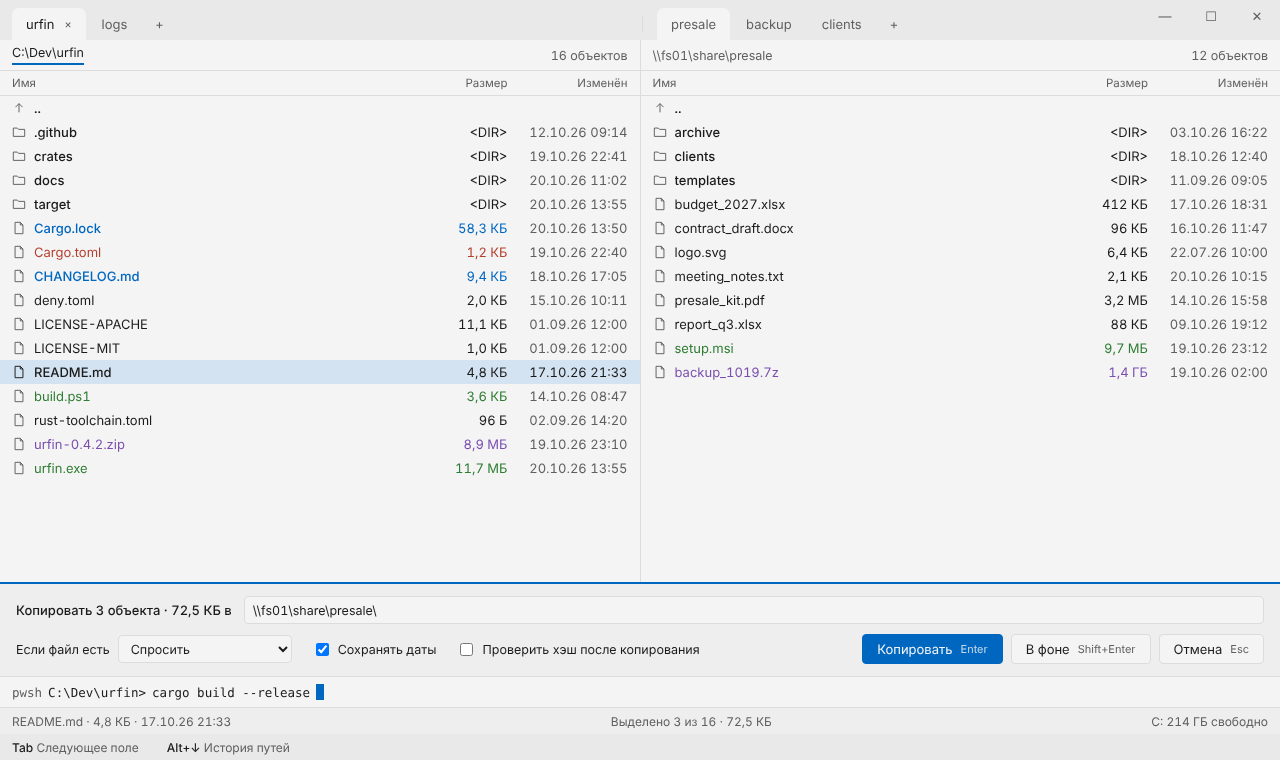
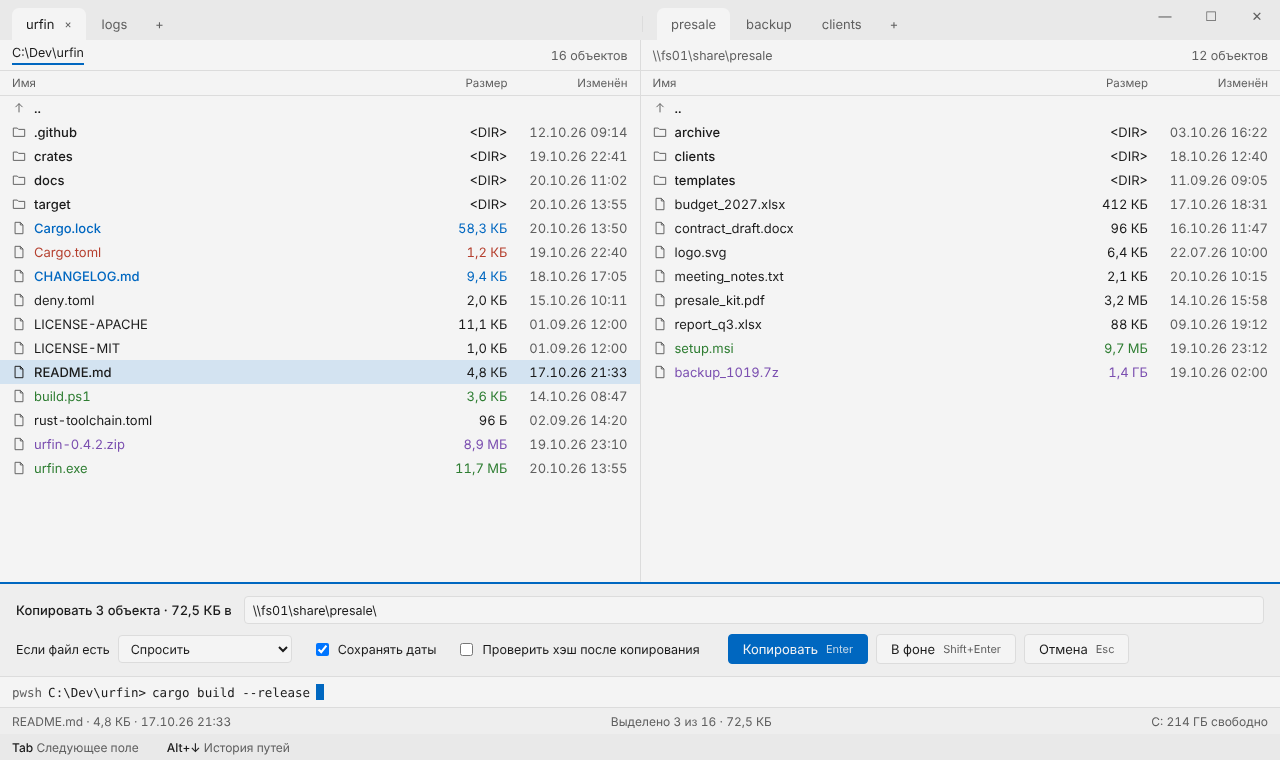
design: tinted warning/danger strips, buttons next to text
Roles warning_bg/danger_bg in all six themes; journal banner and conflict on
warning_bg, F8 on danger_bg; strip buttons follow the text instead of the
right edge; toast row corrected (no buttons).

Claude-Session: https://claude.ai/code/session_013ZpcYnbJMYkHW4aMDDmFTq

Changed region(s): [[0.5625, 0.8171, 0.875, 0.8776], [0.9062, 0.8474, 0.9688, 0.8776]]

diff --git a/docs/design/window.dc.html b/docs/design/window.dc.html
@@ -363,7 +363,7 @@ body{margin:0}
 </label>
 <label style="display: flex; gap: 6px; align-items: center; font-size: 12.5px"><input type="checkbox" checked="{{ true }}" readOnly="{{ true }}">Сохранять даты</label>
 <label style="display: flex; gap: 6px; align-items: center; font-size: 12.5px"><input type="checkbox" readOnly="{{ true }}">Проверить хэш после копирования</label>
-<div style="margin-left: auto; display: flex; gap: 8px">
+<div style="margin-left: 8px; display: flex; gap: 8px">
 <button type="button" style="{{btnPrimary}}">Копировать <span style="opacity: 0.8; font-size: 11px">Enter</span></button>
 <button type="button" style="{{btn}}">В фоне <span style="color: {{t.s}}; font-size: 11px">Shift+Enter</span></button>
 <button type="button" style="{{btn}}">Отмена <span style="color: {{t.s}}; font-size: 11px">Esc</span></button>
@@ -408,7 +408,7 @@ body{margin:0}
 <div style="display: flex; align-items: center; gap: 16px">
 <label style="display: flex; gap: 6px; align-items: center; font-size: 12.5px"><input type="checkbox" readOnly="{{ true }}">Регистр</label>
 <label style="display: flex; gap: 6px; align-items: center; font-size: 12.5px"><input type="checkbox" readOnly="{{ true }}">И папки</label>
-<div style="margin-left: auto; display: flex; gap: 8px">
+<div style="margin-left: 0; display: flex; gap: 8px">
 <button type="button" style="{{btnPrimary}}">Отметить <span style="opacity: 0.8; font-size: 11px">Enter</span></button>
 <button type="button" style="{{btn}}">Отмена <span style="color: {{t.s}}; font-size: 11px">Esc</span></button>
 </div>
@@ -425,7 +425,7 @@ body{margin:0}
 </div>
 <div style="display: flex; align-items: center; gap: 6px; flex-wrap: wrap">
 <sc-for list="{{tplChips}}" as="tc" hint-placeholder-count="5"><button type="button" style="{{chipOff}}"><span style="font-family: 'Cascadia Mono', Consolas, monospace">{{tc.k}}</span> <span style="color: {{t.s}}">{{tc.v}}</span></button></sc-for>
-<div style="margin-left: auto; display: flex; gap: 8px">
+<div style="margin-left: 8px; display: flex; gap: 8px">
 <button type="button" style="{{btnPrimary}}">Переименовать <span style="opacity: 0.8; font-size: 11px">Enter</span></button>
 <button type="button" style="{{btn}}">Отмена <span style="color: {{t.s}}; font-size: 11px">Esc</span></button>
 </div>
@@ -438,7 +438,7 @@ body{margin:0}
 <span style="font-weight: 500; white-space: nowrap">Сравнение папок:</span>
 <span style="white-space: nowrap">только слева 2 · только справа 1 · новее слева 1</span>
 <span style="color: {{t.s}}; white-space: nowrap">· одинаковых 1</span>
-<div style="margin-left: auto; display: flex; gap: 8px">
+<div style="margin-left: 8px; display: flex; gap: 8px">
 <button type="button" style="{{btnPrimary}}">Синхронизировать → <span style="opacity: 0.8; font-size: 11px">Enter</span></button>
 <button type="button" style="{{btn}}">Синхронизировать ← <span style="color: {{t.s}}; font-size: 11px">Shift+Enter</span></button>
 <button type="button" style="{{btn}}">Закрыть <span style="color: {{t.s}}; font-size: 11px">Esc</span></button>
@@ -453,10 +453,10 @@ body{margin:0}
 </div>
 </sc-if>
 <sc-if value="{{isDelete}}" hint-placeholder-val="{{ false }}">
-<div style="position: absolute; left: 0; right: calc(50% + 0.5px); bottom: 0; padding: 10px 14px; display: flex; align-items: center; gap: 10px; background: {{t.h}}; border-top: 2px solid {{t.k}}">
+<div style="position: absolute; left: 0; right: calc(50% + 0.5px); bottom: 0; padding: 10px 14px; display: flex; align-items: center; gap: 10px; background: {{t.dbg}}; border-top: 2px solid {{t.k}}">
 <span style="display: inline-flex; color: {{t.k}}"><svg width="16" height="16" viewBox="0 0 16 16" aria-hidden="true"><path d="M2.5 4h11 M6 4V2.5h4V4 M4 4l.7 9.5h6.6L12 4 M6.5 6.5v5 M9.5 6.5v5" fill="none" stroke="currentColor" stroke-width="1.1"></path></svg></span>
 <span style="white-space: nowrap"><span style="font-weight: 500">Удалить 2 объекта</span><span style="color: {{t.s}}"> · 67,7 КБ · в Корзину</span></span>
-<div style="margin-left: auto; display: flex; gap: 8px">
+<div style="margin-left: 8px; display: flex; gap: 8px">
 <button type="button" style="{{btnDanger}}">Удалить <span style="opacity: 0.8; font-size: 11px">Enter</span></button>
 <button type="button" style="{{btn}}">Безвозвратно <span style="color: {{t.s}}; font-size: 11px">Shift+Enter</span></button>
 <button type="button" style="{{btn}}">Отмена <span style="color: {{t.s}}; font-size: 11px">Esc</span></button>
@@ -464,7 +464,7 @@ body{margin:0}
 </div>
 </sc-if>
 <sc-if value="{{isConflict}}" hint-placeholder-val="{{ false }}">
-<div style="position: absolute; left: 0; right: 0; bottom: 0; padding: 12px 16px; display: flex; flex-direction: column; gap: 10px; background: {{t.h}}; border-top: 2px solid {{t.rem}}">
+<div style="position: absolute; left: 0; right: 0; bottom: 0; padding: 12px 16px; display: flex; flex-direction: column; gap: 10px; background: {{t.wbg}}; border-top: 2px solid {{t.rem}}">
 <div style="display: flex; align-items: center; gap: 10px">
 <span style="display: inline-flex; color: {{t.rem}}"><svg width="16" height="16" viewBox="0 0 16 16" aria-hidden="true"><path d="M8 2l6.5 11.5h-13z M8 6.5v3.5 M8 11.5v.5" fill="none" stroke="currentColor" stroke-width="1.2"></path></svg></span>
 <span style="font-weight: 500">Файл уже есть в папке назначения</span>
@@ -487,13 +487,13 @@ body{margin:0}
 </sc-if>
 </div>
 <sc-if value="{{showBanner}}" hint-placeholder-val="{{ false }}">
-<div style="height: 40px; flex: none; display: flex; align-items: center; gap: 10px; padding: 0 12px; background: {{t.h}}; border-top: 2px solid {{t.rem}}">
+<div style="height: 40px; flex: none; display: flex; align-items: center; gap: 10px; padding: 0 12px; background: {{t.wbg}}; border-top: 2px solid {{t.rem}}">
 <span style="display: inline-flex; color: {{t.rem}}"><svg width="16" height="16" viewBox="0 0 16 16" aria-hidden="true"><circle cx="8" cy="8" r="6.5" fill="none" stroke="currentColor" stroke-width="1.1"></circle><path d="M8 4.5V8l2.5 1.5" fill="none" stroke="currentColor" stroke-width="1.1"></path></svg></span>
 <span style="font-weight: 500">Прервано при выходе:</span>
 <span style="overflow: hidden; text-overflow: ellipsis; white-space: nowrap">Копировать big.bin → D:\backup\b</span>
 <span style="color: {{t.s}}; white-space: nowrap">выполнено ≈ 62 %</span>
 <span style="color: {{t.s}}; font-size: 12px; white-space: nowrap">· ещё 1</span>
-<div style="margin-left: auto; display: flex; gap: 8px">
+<div style="margin-left: 8px; display: flex; gap: 8px">
 <button type="button" style="{{btnPrimary}}">Продолжить</button>
 <button type="button" style="{{btn}}">Очистить</button>
 </div>
@@ -542,12 +542,12 @@ body{margin:0}
 class Component extends DCLogic {
 renderVals() {
 const TH = {
-light: {f:"#E9E9E9",p:"#F4F4F4",h:"#EEEEEE",t:"#1B1B1B",s:"#5F5F5F",a:"#0067C0",c:"#D3E3F1",ct:"#1B1B1B",b:"#DCDCDC",k:"#B5402F",ex:"#2E7D32",ar:"#7B4FB0",cl:"#ECECEC",hl:"#F2E3A0",kw:"#1F5FA8",str:"#8A4B12",num:"#6A3FA0",com:"#5F6B76",adm:"#B5402F",rem:"#A86A12"},
-dark: {f:"#1C1C1C",p:"#262626",h:"#2B2B2B",t:"#F2F2F2",s:"#B8B8B8",a:"#6CC4F2",c:"#24557A",ct:"#FFFFFF",b:"#3C3C3C",k:"#FFB86C",ex:"#8FD98A",ar:"#C9B4FF",cl:"#2E2E2E",hl:"#5C4A1C",kw:"#7FB8F0",str:"#E3B07A",num:"#C9B4FF",com:"#949494",adm:"#FF8A7A",rem:"#FFC46B"},
-blue: {f:"#E1E9F1",p:"#EEF3F8",h:"#E8EEF4",t:"#1E2A36",s:"#5E6B78",a:"#3A6EA5",c:"#D4E3F2",ct:"#1E2A36",b:"#D3DDE8",k:"#B0452F",ex:"#2E7D4A",ar:"#7A4FA8",cl:"#E6EDF4",hl:"#F0E2A6",kw:"#2F5F96",str:"#8A4B12",num:"#6A3FA0",com:"#5E6B78",adm:"#B0452F",rem:"#A86A12"},
-turquoise: {f:"#DFEDEB",p:"#EDF5F4",h:"#E6F1EF",t:"#1D2E2D",s:"#5A7270",a:"#2C8C86",c:"#CFE9E6",ct:"#1D2E2D",b:"#CFE1DE",k:"#B0502F",ex:"#3A7D2E",ar:"#7A4FA8",cl:"#E4F0EE",hl:"#F0E2A6",kw:"#1F6F6A",str:"#8A4B12",num:"#6A3FA0",com:"#5A7270",adm:"#B0502F",rem:"#A86A12"},
-grass: {f:"#E3ECDD",p:"#EEF4EA",h:"#E8F0E3",t:"#222D1C",s:"#5F6D57",a:"#4E8A3A",c:"#DCEBCF",ct:"#222D1C",b:"#D5E0CC",k:"#A84A2C",ex:"#2C6E8F",ar:"#7A4FA8",cl:"#E6EEE1",hl:"#F0E2A6",kw:"#3E6E2E",str:"#8A4B12",num:"#2C5F8F",com:"#5F6D57",adm:"#A84A2C",rem:"#A86A12"},
-sepia: {f:"#E7DECF",p:"#F2ECE1",h:"#ECE4D7",t:"#3A3128",s:"#7A6C5C",a:"#9A6A3A",c:"#E8DCC6",ct:"#3A3128",b:"#DACFBC",k:"#A8432F",ex:"#4F7A2E",ar:"#7A4F8F",cl:"#EBE3D6",hl:"#EAD49A",kw:"#7A4A1F",str:"#5E6A2E",num:"#6A3F7A",com:"#7A6C5C",adm:"#A8432F",rem:"#9A6212"}
+light: {f:"#E9E9E9",p:"#F4F4F4",h:"#EEEEEE",t:"#1B1B1B",s:"#5F5F5F",a:"#0067C0",c:"#D3E3F1",ct:"#1B1B1B",b:"#DCDCDC",k:"#B5402F",ex:"#2E7D32",ar:"#7B4FB0",cl:"#ECECEC",hl:"#F2E3A0",kw:"#1F5FA8",str:"#8A4B12",num:"#6A3FA0",com:"#5F6B76",adm:"#B5402F",rem:"#A86A12",wbg:"#F8EBD3",dbg:"#F7E2DD"},
+dark: {f:"#1C1C1C",p:"#262626",h:"#2B2B2B",t:"#F2F2F2",s:"#B8B8B8",a:"#6CC4F2",c:"#24557A",ct:"#FFFFFF",b:"#3C3C3C",k:"#FFB86C",ex:"#8FD98A",ar:"#C9B4FF",cl:"#2E2E2E",hl:"#5C4A1C",kw:"#7FB8F0",str:"#E3B07A",num:"#C9B4FF",com:"#949494",adm:"#FF8A7A",rem:"#FFC46B",wbg:"#3D3220",dbg:"#402622"},
+blue: {f:"#E1E9F1",p:"#EEF3F8",h:"#E8EEF4",t:"#1E2A36",s:"#5E6B78",a:"#3A6EA5",c:"#D4E3F2",ct:"#1E2A36",b:"#D3DDE8",k:"#B0452F",ex:"#2E7D4A",ar:"#7A4FA8",cl:"#E6EDF4",hl:"#F0E2A6",kw:"#2F5F96",str:"#8A4B12",num:"#6A3FA0",com:"#5E6B78",adm:"#B0452F",rem:"#A86A12",wbg:"#F5EAD6",dbg:"#F4E2DE"},
+turquoise: {f:"#DFEDEB",p:"#EDF5F4",h:"#E6F1EF",t:"#1D2E2D",s:"#5A7270",a:"#2C8C86",c:"#CFE9E6",ct:"#1D2E2D",b:"#CFE1DE",k:"#B0502F",ex:"#3A7D2E",ar:"#7A4FA8",cl:"#E4F0EE",hl:"#F0E2A6",kw:"#1F6F6A",str:"#8A4B12",num:"#6A3FA0",com:"#5A7270",adm:"#B0502F",rem:"#A86A12",wbg:"#F4EAD6",dbg:"#F4E2DC"},
+grass: {f:"#E3ECDD",p:"#EEF4EA",h:"#E8F0E3",t:"#222D1C",s:"#5F6D57",a:"#4E8A3A",c:"#DCEBCF",ct:"#222D1C",b:"#D5E0CC",k:"#A84A2C",ex:"#2C6E8F",ar:"#7A4FA8",cl:"#E6EEE1",hl:"#F0E2A6",kw:"#3E6E2E",str:"#8A4B12",num:"#2C5F8F",com:"#5F6D57",adm:"#A84A2C",rem:"#A86A12",wbg:"#F3E9D4",dbg:"#F3E1DA"},
+sepia: {f:"#E7DECF",p:"#F2ECE1",h:"#ECE4D7",t:"#3A3128",s:"#7A6C5C",a:"#9A6A3A",c:"#E8DCC6",ct:"#3A3128",b:"#DACFBC",k:"#A8432F",ex:"#4F7A2E",ar:"#7A4F8F",cl:"#EBE3D6",hl:"#EAD49A",kw:"#7A4A1F",str:"#5E6A2E",num:"#6A3F7A",com:"#7A6C5C",adm:"#A8432F",rem:"#9A6212",wbg:"#EFDDBE",dbg:"#EED5CB"}
 };
 const NAMES = [["light","Системная светлая"],["dark","Системная тёмная"],["blue","Голубая"],["turquoise","Бирюза"],["grass","Травяная"],["sepia","Сепия"]];
 const st = this.state || {};

diff --git a/docs/design/DESIGN.md b/docs/design/DESIGN.md
@@ -12,6 +12,7 @@
 - **Одна информация — одно место** (№61): имя файла — во вкладке; путь — в заголовке экрана/панели; размер, кодировка, переводы строк, тип — в статус-строке; переключатели режимов — в заголовке экрана; клавиши встроенной строки — подписями на её кнопках и **не** повторяются в keybar (keybar в это время показывает только дополнительные клавиши: Tab, F3 и т. п.).
 - **Всплывающий список и его кнопка — одна фигура** («мешочек»): меню F9, выпадающие поля, кнопки со списком. Открытая кнопка становится корешком цвета `panel` без нижней границы и перетекает в список; корешок — в любом месте верхнего края списка, как удобнее для компоновки (подробно — `screen-menu.png`). Контекстное меню без кнопки-якоря — обычная плашка.
 - Цвет — только роли темы; литералы запрещены (T-01-6). Акцент — только для фокуса/курсора/основной кнопки; красный (`modified`) — для опасного действия; `context_remote` (янтарь) — для «ждёт ответа».
+- **Строки с вопросом**: предупреждение (баннер журнала, конфликт) — весь фон `warning_bg` + черта `context_remote`; опасное действие (F8) — фон `danger_bg` + черта `modified`; обычные (F5, отметка, переименование, сравнение) — фон `header` + черта `accent`. **Кнопки — сразу за текстом/полями**, не прижаты к правому краю: мышь не ходит через всю ширину.
 - Шрифты: интерфейс Segoe UI Variable 13 px; моно Cascadia Mono 12,5–13 px; вторичные подписи 12 px; заголовки колонок 11,5 px. Цифры — tabular.
 - Иконки — Segoe Fluent Icons, монохром `secondary` (на курсоре — `cursor_text`); цветной режим — по ролям типов.
 
@@ -28,7 +29,7 @@
 | Командная строка | 30 | моно 12,5; шелл `secondary`; каретка — блок 8×16 `accent` |
 | Статус-строка | 26 | фон `header`, 12 px `secondary`, три зоны: свойства файла · выделение · свободно на томе |
 | Keybar | 26 | 12 px; 10 клавиш — по ширине, меньше — слева с шагом 28 |
-| Тост | ширина 340 | правый **низ** над зоной событий (№63, положение из №51 отменено), кнопки действий — в одну строку, фон `panel`, рамка `border`, скругление 6 |
+| Тост | ширина 340 | правый **низ** над зоной событий (№63, положение из №51 отменено), только сообщение, без кнопок (действия — встроенной строкой), фон `panel`, рамка `border`, скругление 6 |
 | Полоса контекста | 3 | сверху окна, `context_admin`/`context_remote` + метка в заголовке (`context-admin.png`) |
 
 ## Экраны
@@ -49,12 +50,12 @@
 | `screen-termhalf.png` | Ctrl+F1: левая панель скрыта, терминал виден под ней; правая панель активна, её набор табов — активный; **набор табов скрытой панели не показывается** | S6 |
 | `screen-context.png` | Контекстное меню (правая кнопка, Shift+F10): плашка 300 у курсора, без корешка — якоря-кнопки нет; пункт 28, клавиши справа `secondary`, «›» — подменю, последний раздел — «Меню Проводника ›» (системное меню оболочки) | G-05 |
 | `screen-select.png` | Num + / Num −: строка внизу активной панели в две строки — «Отметить» + маска (несколько через `;`) + «совпадает N»; «Регистр», «И папки», Отметить (Enter) / Отмена (Esc). Пока строка открыта, совпавшие имена подсвечены `highlight` (предпросмотр отметки) | G-05 |
-| `screen-journal.png` | Баннер журнала операций (S5-12) — строка 40 в зоне событий над job-баром, черта сверху `context_remote`, **сдвигает** панели (живёт до ответа); баннеров несколько — показывается один и «ещё N»: значок часов `context_remote`, «Прервано при выходе:» + что и куда + «выполнено ≈ N %», кнопки «Продолжить» (основная) / «Очистить» | D-04 / S5-12 |
+| `screen-journal.png` | Баннер журнала операций (S5-12) — строка 40 в зоне событий над job-баром, фон `warning_bg`, черта сверху `context_remote`, **сдвигает** панели (живёт до ответа); баннеров несколько — показывается один и «ещё N»: значок часов `context_remote`, «Прервано при выходе:» + что и куда + «выполнено ≈ N %», кнопки «Продолжить» (основная) / «Очистить» — сразу за текстом | D-04 / S5-12 |
 | `screen-multirename.png` | Групповое переименование (S5-23): строка внизу активной панели — «Новые имена» + шаблон моно + «изменится N · проблем M»; ряд вставок `[N]` `[E]` `[C]` `[Y][M][D]`, «найти/замена через /»; превью прямо в списке: «старое → новое» `accent`, проблема (повтор, ошибка) — `modified` | D-04 / S5-23 |
 | `screen-compare.png` | Сравнение папок (S5-24): отличия отмечены в обеих панелях, у строки — метка причины («новее», «только здесь») в рамке `border`; итог — **встроенная строка на всю ширину** (черта `accent`): «Сравнение папок: только слева N · только справа N · новее … · одинаковых N», Синхронизировать → (Enter) / ← (Shift+Enter) / Закрыть (Esc) | D-04 / S5-24 |
 | `screen-copy.png` | F5: строка копирования — заголовок «Копировать N · размер в», поле пути, «Если файл есть» (Спросить/Заменить/Пропустить/Заменить, если новее), «Сохранять даты», «Проверить хэш»; кнопки Копировать (Enter, основная) / В фоне (Shift+Enter) / Отмена (Esc); черта сверху 2 px `accent` | G-05 (PromptDetail) |
-| `screen-delete.png` | F8: строка в ширину активной панели, черта `modified`, иконка корзины; Удалить (Enter, кнопка `modified`) / Безвозвратно (Shift+Enter) / Отмена | G-05 |
-| `screen-conflict.png` | Конфликт: сравнение «Копируемый / Существующий» (размер, дата, метка «новее» `accent`), Заменить / Пропустить (S) / Заменить, если новее (N) / Переименовать (R), «Так же для остальных N», Отмена; черта `context_remote`; задача в job-баре «ждёт ответа» янтарём | G-05 (S2-15 conflict view) |
+| `screen-delete.png` | F8: строка в ширину активной панели, фон `danger_bg`, черта `modified`, иконка корзины; Удалить (Enter, кнопка `modified`) / Безвозвратно (Shift+Enter) / Отмена | G-05 |
+| `screen-conflict.png` | Конфликт: сравнение «Копируемый / Существующий» (размер, дата, метка «новее» `accent`), Заменить / Пропустить (S) / Заменить, если новее (N) / Переименовать (R), «Так же для остальных N», Отмена; фон `warning_bg`, черта `context_remote`; задача в job-баре «ждёт ответа» янтарём | G-05 (S2-15 conflict view) |
 | `screen-jobs.png` | Job-бар: строка 30 на задачу — имя, что/куда, прогресс 4 px, «из · скорость · ещё», Пауза, ✕ | G-05 (S2-17) |
 | `screen-search.png` | Alt+F7: поля Имя/Текст/В, Aa, .*, Подкаталоги на месте левой панели; результаты «файл:строка + фрагмент» с подсветкой `highlight`; справа предпросмотр с номером строки, строка совпадения — `current_line`; внизу прогресс и итог | после G-05 (search) |
 | `screen-viewer.png` | F3: шапка 36 (иконка, путь к папке, «только чтение», переключатель Текст/Разметка/Hex), номера строк на подложке `header` 52, строки 22, полоса прокрутки 14 с бегунком и метками | S7 |

diff --git a/docs/THEMES.md b/docs/THEMES.md
@@ -4,42 +4,42 @@
 
 **Одна информация — одно место** (№61): имя файла — во вкладке; путь — в заголовке экрана; размер, кодировка, переводы строк, тип — в статус-строке; переключатели режимов — в заголовке; действия по клавишам — в панели клавиш; действия встроенной строки (поиск, подтверждение, конфликт) — на её кнопках с подписью клавиши, в панели клавиш не повторяются.
 
-Роли: frame (каркас/заголовок), panel, header (статус-строка, плашки, подложка номеров строк), text, secondary, accent (акцент ОС в light/dark), cursor, cursor_text, border, current_line (строка редактора), highlight (совпадения поиска), modified, exec, archive, context_admin, context_remote; syntax: keyword, string, number, comment. Контраст text-ролей и syntax к panel ≥4,5:1; exec не совпадает по тону с accent.
+Роли: frame (каркас/заголовок), panel, header (статус-строка, плашки, подложка номеров строк), text, secondary, accent (акцент ОС в light/dark), cursor, cursor_text, border, current_line (строка редактора), highlight (совпадения поиска), modified, exec, archive, context_admin, context_remote, warning_bg (подложка вопроса/предупреждения — баннер журнала, конфликт), danger_bg (подложка опасного действия — F8); syntax: keyword, string, number, comment. Контраст text-ролей и syntax к panel ≥4,5:1, text и secondary к warning_bg/danger_bg — тоже; exec не совпадает по тону с accent.
 
 ```toml
 [system-light]
 frame="#E9E9E9" panel="#F4F4F4" header="#EEEEEE" text="#1B1B1B" secondary="#5F5F5F"
 accent="#0067C0" cursor="#D3E3F1" cursor_text="#1B1B1B" border="#DCDCDC"
 current_line="#ECECEC" highlight="#F2E3A0"
-modified="#B5402F" exec="#2E7D32" archive="#7B4FB0" context_admin="#B5402F" context_remote="#A86A12"
+modified="#B5402F" exec="#2E7D32" archive="#7B4FB0" context_admin="#B5402F" context_remote="#A86A12" warning_bg="#F8EBD3" danger_bg="#F7E2DD"
 syntax = { keyword="#1F5FA8", string="#8A4B12", number="#6A3FA0", comment="#5F6B76" }
 
 [system-dark]
 frame="#1C1C1C" panel="#262626" header="#2B2B2B" text="#F2F2F2" secondary="#B8B8B8"
 accent="#6CC4F2" cursor="#24557A" cursor_text="#FFFFFF" border="#3C3C3C"
 current_line="#2E2E2E" highlight="#5C4A1C"
-modified="#FFB86C" exec="#8FD98A" archive="#C9B4FF" context_admin="#FF8A7A" context_remote="#FFC46B"
+modified="#FFB86C" exec="#8FD98A" archive="#C9B4FF" context_admin="#FF8A7A" context_remote="#FFC46B" warning_bg="#3D3220" danger_bg="#402622"
 syntax = { keyword="#7FB8F0", string="#E3B07A", number="#C9B4FF", comment="#949494" }
 
 [blue]
 frame="#E1E9F1" panel="#EEF3F8" header="#E8EEF4" text="#1E2A36" secondary="#5E6B78"
 accent="#3A6EA5" cursor="#D4E3F2" cursor_text="#1E2A36" border="#D3DDE8"
 current_line="#E6EDF4" highlight="#F0E2A6"
-modified="#B0452F" exec="#2E7D4A" archive="#7A4FA8" context_admin="#B0452F" context_remote="#A86A12"
+modified="#B0452F" exec="#2E7D4A" archive="#7A4FA8" context_admin="#B0452F" context_remote="#A86A12" warning_bg="#F5EAD6" danger_bg="#F4E2DE"
 syntax = { keyword="#2F5F96", string="#8A4B12", number="#6A3FA0", comment="#5E6B78" }
 
 [turquoise]
 frame="#DFEDEB" panel="#EDF5F4" header="#E6F1EF" text="#1D2E2D" secondary="#5A7270"
 accent="#2C8C86" cursor="#CFE9E6" cursor_text="#1D2E2D" border="#CFE1DE"
 current_line="#E4F0EE" highlight="#F0E2A6"
-modified="#B0502F" exec="#3A7D2E" archive="#7A4FA8" context_admin="#B0502F" context_remote="#A86A12"
+modified="#B0502F" exec="#3A7D2E" archive="#7A4FA8" context_admin="#B0502F" context_remote="#A86A12" warning_bg="#F4EAD6" danger_bg="#F4E2DC"
 syntax = { keyword="#1F6F6A", string="#8A4B12", number="#6A3FA0", comment="#5A7270" }
 
 [grass]
 frame="#E3ECDD" panel="#EEF4EA" header="#E8F0E3" text="#222D1C" secondary="#5F6D57"
 accent="#4E8A3A" cursor="#DCEBCF" cursor_text="#222D1C" border="#D5E0CC"
 current_line="#E6EEE1" highlight="#F0E2A6"
-modified="#A84A2C" exec="#2C6E8F" archive="#7A4FA8" context_admin="#A84A2C" context_remote="#A86A12"
+modified="#A84A2C" exec="#2C6E8F" archive="#7A4FA8" context_admin="#A84A2C" context_remote="#A86A12" warning_bg="#F3E9D4" danger_bg="#F3E1DA"
 syntax = { keyword="#3E6E2E", string="#8A4B12", number="#2C5F8F", comment="#5F6D57" }
 # exec не зелёный — не сливается с акцентом
 
@@ -47,7 +47,7 @@ syntax = { keyword="#3E6E2E", string="#8A4B12", number="#2C5F8F", comment="#5F6D
 frame="#E7DECF" panel="#F2ECE1" header="#ECE4D7" text="#3A3128" secondary="#7A6C5C"
 accent="#9A6A3A" cursor="#E8DCC6" cursor_text="#3A3128" border="#DACFBC"
 current_line="#EBE3D6" highlight="#EAD49A"
-modified="#A8432F" exec="#4F7A2E" archive="#7A4F8F" context_admin="#A8432F" context_remote="#9A6212"
+modified="#A8432F" exec="#4F7A2E" archive="#7A4F8F" context_admin="#A8432F" context_remote="#9A6212" warning_bg="#EFDDBE" danger_bg="#EED5CB"
 syntax = { keyword="#7A4A1F", string="#5E6A2E", number="#6A3F7A", comment="#7A6C5C" }
 ```
 
